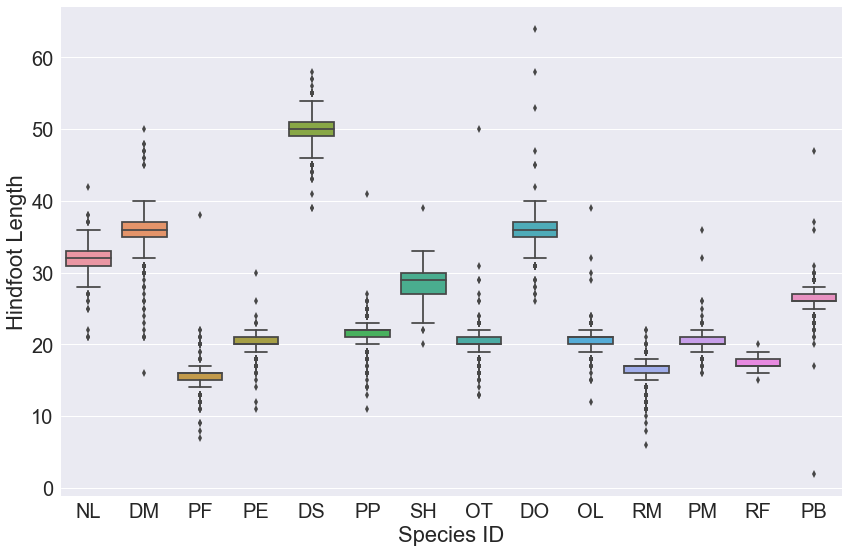
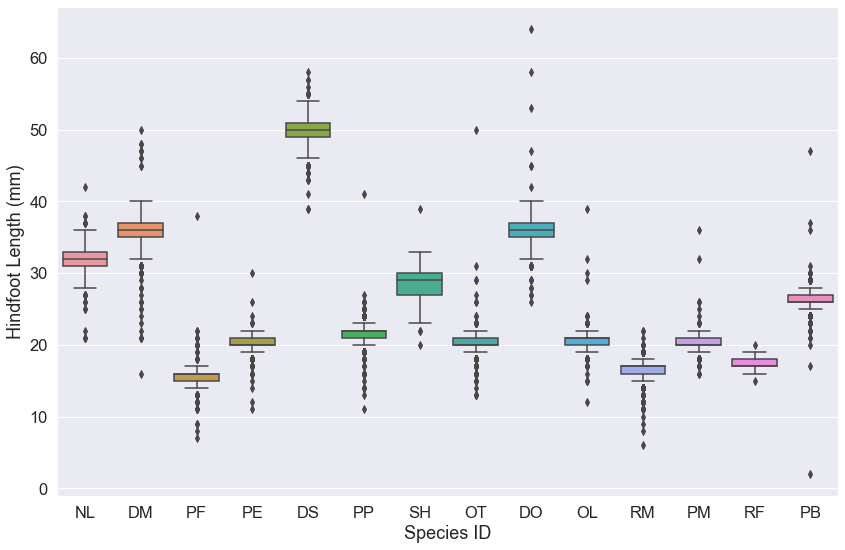
updates to ep 05

diff --git a/_episodes/05-seaborn-viz.md b/_episodes/05-seaborn-viz.md
@@ -147,7 +147,7 @@ There are different ways to set figure properties using seaborn. For `.lmplot()`
 ~~~
 my_fig = sns.lmplot("weight", "hindfoot_length", data=surveys_complete, fit_reg=False, height=8, 
                     aspect=1.5, scatter_kws={'alpha':0.3,"s": 50}, hue='species_id', markers='D')
-my_fig.set_axis_labels('Weight', 'Hindfoot Length')
+my_fig.set_axis_labels('Weight (g)', 'Hindfoot Length (mm)')
 ~~~
 {: .python}
 
@@ -168,7 +168,7 @@ my_fig.set_axis_labels('Weight', 'Hindfoot Length')
 > > my_fig = sns.lmplot("weight", "hindfoot_length", data=surveys_complete[surveys_complete.plot_id == 12], 
                     fit_reg=False, height=8, aspect=1.5, scatter_kws={'alpha':0.3,"s": 200}, 
                     hue='sex', markers='8')
-my_fig.set_axis_labels('Weight', 'Hindfoot Length')
+my_fig.set_axis_labels('Weight (g)', 'Hindfoot Length (mm)')
 > > ~~~
 > > {: .python}
 > > 
@@ -197,7 +197,7 @@ Now, every time we create a new plot that returns a matplotlib Axes object, we c
 ~~~
 fig, ax = plt.subplots(figsize=plot_dims)
 sns.boxplot('species_id','hindfoot_length', data=surveys_complete)
-ax.set(xlabel='Species ID', ylabel='Hindfoot Length')
+ax.set(xlabel='Species ID', ylabel='Hindfoot Length (mm)')
 ~~~
 {: .python}
 
@@ -212,7 +212,7 @@ An easy way to do this is to create a new graph variable from our `.violinplot()
 fig, ax = plt.subplots(figsize=plot_dims)
 g = sns.violinplot('weight','species_id', data=surveys_complete, linewidth=0.2, orient="h", cut=0)
 g.set_xscale('log', basex=10)
-ax.set(ylabel='Species ID', xlabel='Weight')
+ax.set(ylabel='Species ID', xlabel='Weight (g)')
 ~~~
 {: .python}
 
@@ -296,7 +296,7 @@ We can reproduce the histogram of the weights of all our observations.
 
 ~~~
 hist, edges = np.histogram(surveys_complete['weight'], density=True, bins=100)
-my_fig = figure(title="Weight",background_fill_color="#EBC8EB")
+my_fig = figure(title="Weight (g)",background_fill_color="#EBC8EB")
 my_fig.quad(top=hist, bottom=0, left=edges[:-1], right=edges[1:],fill_color="#036564", line_color="#033649")
 show(my_fig)
 ~~~
